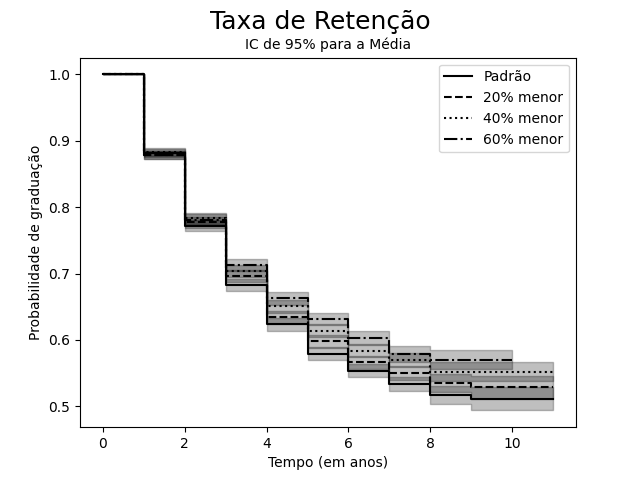
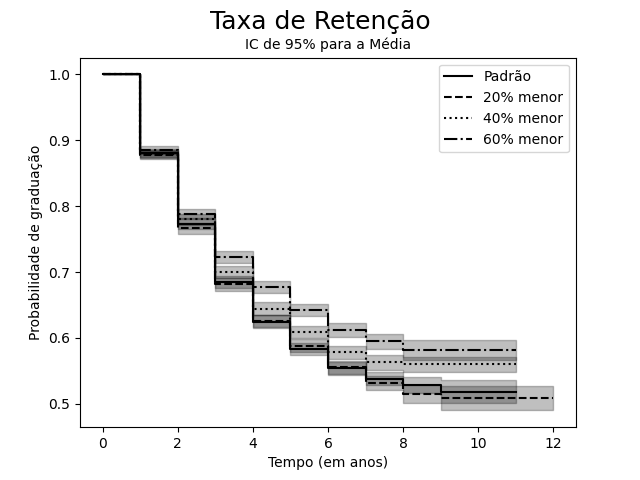
Adicionado experimento para ano 1 e 2

diff --git a/generate_mc.py b/generate_mc.py
@@ -5,11 +5,12 @@ from markov_diagram import Diagram
 from pydtmc import MarkovChain, plot_graph, plot_walk
 
 # Alterar aqui parametros para gerar matriz
-nomeArquivo = "matrix/matrixTrancamentoMenos60.csv"
+nomeArquivo = "matrix/matrixMenos60EvasaoA1.csv"
 taxaRetencao = 1.0
 taxaEvasao = 1.0
-taxaEvasaoA1 = 1.0
-taxaTrancar = 0.4
+taxaEvasaoA1 = 0.4
+taxaEvasaoA2 = 1.0
+taxaTrancar = 1.0
 taxaEvasaoR = 1.0
 taxaTrancarR = 1.0
 taxaProporcaoEvasao = 1.5
@@ -39,8 +40,8 @@ A5toA5R = 0.2 * taxaRetencao
 
 # Evadir
 A1toE = 0.12 * taxaEvasao * taxaEvasaoA1
-A1RtoE = A1toE * taxaEvasaoR * taxaProporcaoEvasao * taxaEvasaoA1
-A2toE = 0.1 * taxaEvasao
+A1RtoE = A1toE * taxaEvasaoR * taxaProporcaoEvasao
+A2toE = 0.1 * taxaEvasao * taxaEvasaoA2
 A2RtoE = A2toE * taxaEvasaoR * taxaProporcaoEvasao
 A3toE = 0.07 * taxaEvasao
 A3RtoE = A3toE * taxaEvasaoR * taxaProporcaoEvasao
@@ -129,7 +130,7 @@ p = [[A1T, A1toA2, 0.0, 0.0, 0.0, A1toA1R, 0.0, 0.0, 0.0, 0.0, 0.0, 0.0, 0.0, A1
 
 
 
-# states = ['Y1', 'Y2', 'Y3', 'Y4', 'I', 'G', 'W']
+# states = ['A1', 'A2', 'A3', 'A4', 'A1R', 'A2R', 'A3R', 'A4R', 'G', 'W']
 # state = np.array([[1, 0, 0, 0, 0, 0, 0]])
 # p = [[0.057, 0.31, 0.0, 0.0, 0.603, 0.0, 0.03],
 #      [0.0, 0.187, 0.528, 0.0, 0.285, 0.0, 0.0],
@@ -139,11 +140,25 @@ p = [[A1T, A1toA2, 0.0, 0.0, 0.0, A1toA1R, 0.0, 0.0, 0.0, 0.0, 0.0, 0.0, 0.0, A1
 #      [0.0, 0.0, 0.0, 0.0, 0.0, 1.0, 0.0],
 #      [0.0, 0.0, 0.0, 0.0, 0.0, 0.0, 1.0]]
 
-# states = ['Inicio', 'A1', 'A2', 'A3', 'A4', 'Graduado', 'Evadido']
+#Chance de graduar 68,12%
+# states = ['Inicio', 'A1', 'A2', 'A3', 'A4', 'G', 'E']
 # state = np.array([[1, 0, 0, 0, 0, 0, 0]])
-# p = [[0.0, 0.89, 0.09, 0.02, 0.0, 0.0, 0.0], [0.0, 0.17, 0.64, 0.06, 0.0, 0.0, 0.13],
-#      [0.0, 0.0, 0.1, 0.75, 0.08, 0.0, 0.07], [0.0, 0.0, 0.0, 0.08, 0.84, 0.04, 0.04],
-#      [0.0, 0.0, 0.0, 0.0, 0.37, 0.61, 0.02], [0.0, 0.0, 0.0, 0.0, 0.0, 1.0, 0.0],
+# p = [[0.0, 0.89, 0.09, 0.02, 0.0, 0.0, 0.0],
+#      [0.0, 0.17, 0.64, 0.06, 0.0, 0.0, 0.13],
+#      [0.0, 0.0, 0.1, 0.75, 0.08, 0.0, 0.07],
+#      [0.0, 0.0, 0.0, 0.08, 0.84, 0.04, 0.04],
+#      [0.0, 0.0, 0.0, 0.0, 0.37, 0.61, 0.02],
+#      [0.0, 0.0, 0.0, 0.0, 0.0, 1.0, 0.0],
+#      [0.0, 0.0, 0.0, 0.0, 0.0, 0.0, 1.0]]
+
+# states = ['A1', 'A2', 'A3', 'A4', 'A1R', 'A2R', 'A3R', 'A4R', 'G', 'E']
+# state = np.array([[1, 0, 0, 0, 0, 0, 0, 0, 0, 0]])
+# p = [[0.0, 0.89, 0.09, 0.02, 0.0, 0.0, 0.0],
+#      [0.0, 0.17, 0.64, 0.06, 0.0, 0.0, 0.13],
+#      [0.0, 0.0, 0.1, 0.75, 0.08, 0.0, 0.07],
+#      [0.0, 0.0, 0.0, 0.08, 0.84, 0.04, 0.04],
+#      [0.0, 0.0, 0.0, 0.0, 0.37, 0.61, 0.02],
+#      [0.0, 0.0, 0.0, 0.0, 0.0, 1.0, 0.0],
 #      [0.0, 0.0, 0.0, 0.0, 0.0, 0.0, 1.0]]
 
 

diff --git a/simulation.py b/simulation.py
@@ -167,17 +167,46 @@ quantAlunos = 10000
 
 
 # Simulação Evasão A1
+time, event = Simu(quantAlunos, 'matrix/matrixPadrao.csv')
+time20, event_observed_20 = Simu(quantAlunos, 'matrix/matrixMenos20EvasaoA1.csv')
+time40, event_observed_40 = Simu(quantAlunos, 'matrix/matrixMenos40EvasaoA1.csv')
+time60, event_observed_60 = Simu(quantAlunos, 'matrix/matrixMenos60EvasaoA1.csv')
+
+
+times = [time, time20, time40, time60]
+events = [event, event_observed_20, event_observed_40, event_observed_60]
+labels = ["Padrão", "20% menor", "40% menor", "60% menor"]
+
+sobrevivencia(times, events, labels, "Taxa de Evasão")
+
+
+print("logrank")
+results = logrank_test(time, time20, event, event_observed_20)
+results.print_summary()
+print(results.p_value)
+
+results = logrank_test(time, time40, event, event_observed_40)
+results.print_summary()
+print(results.p_value)
+
+results = logrank_test(time, time60, event, event_observed_60)
+results.print_summary()
+print(results.p_value)
+
+
+
+# Simulação Evasão A1 e A2
 # time, event = Simu(quantAlunos, 'matrix/matrixPadrao.csv')
-# time20, event_observed_20 = Simu(quantAlunos, 'matrix/matrixMenos20EvasaoA1.csv')
-# time40, event_observed_40 = Simu(quantAlunos, 'matrix/matrixMenos40EvasaoA1.csv')
-# time60, event_observed_60 = Simu(quantAlunos, 'matrix/matrixMenos60EvasaoA1.csv')
+# time20, event_observed_20 = Simu(quantAlunos, 'matrix/matrixMenos20EvasaoA2.csv')
+# time40, event_observed_40 = Simu(quantAlunos, 'matrix/matrixMenos40EvasaoA2.csv')
+# time60, event_observed_60 = Simu(quantAlunos, 'matrix/matrixMenos60EvasaoA2.csv')
 #
 #
 # times = [time, time20, time40, time60]
 # events = [event, event_observed_20, event_observed_40, event_observed_60]
-# labels = ["Padrão", "Menos 20%", "Menos 40%", "Menos 60%"]
+# labels = ["Padrão", "20% menor", "40% menor", "60% menor"]
 #
-# sobrevivencia(times, events, labels, "Evasão A1")
+# sobrevivencia(times, events, labels, "Taxa de Evasão")
 #
 #
 # print("logrank")
@@ -196,9 +225,9 @@ quantAlunos = 10000
 
 
 # Simulação Geral
-time, event = Simu(quantAlunos, 'matrix/matrixPadrao.csv')
-
-sobrevivencia([time], [event], ['Estudantes'], "Análise de Sobrevivência")
+# time, event = Simu(quantAlunos, 'matrix/matrixPadrao.csv')
+#
+# sobrevivencia([time], [event], ['Estudantes'], "Análise de Sobrevivência")
 
 
 
